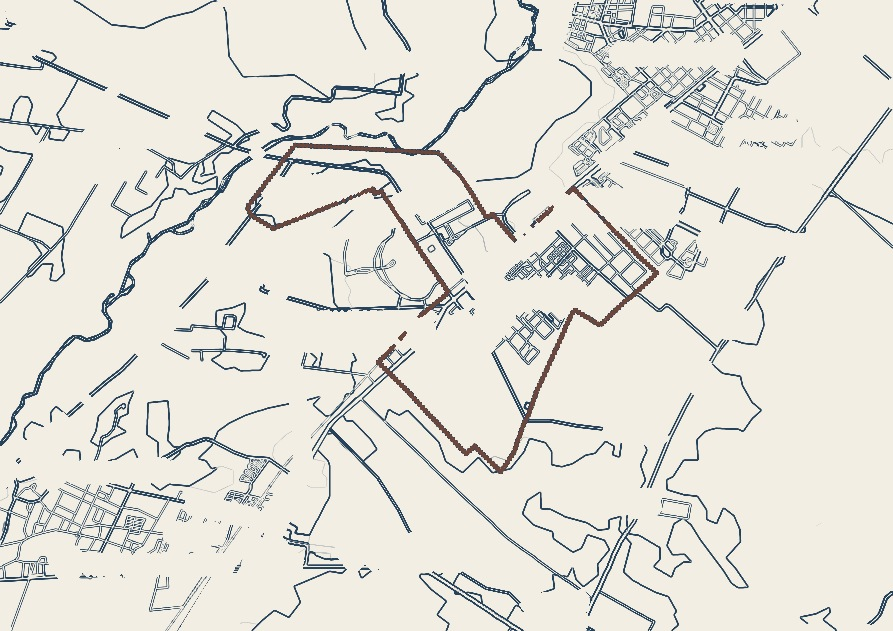
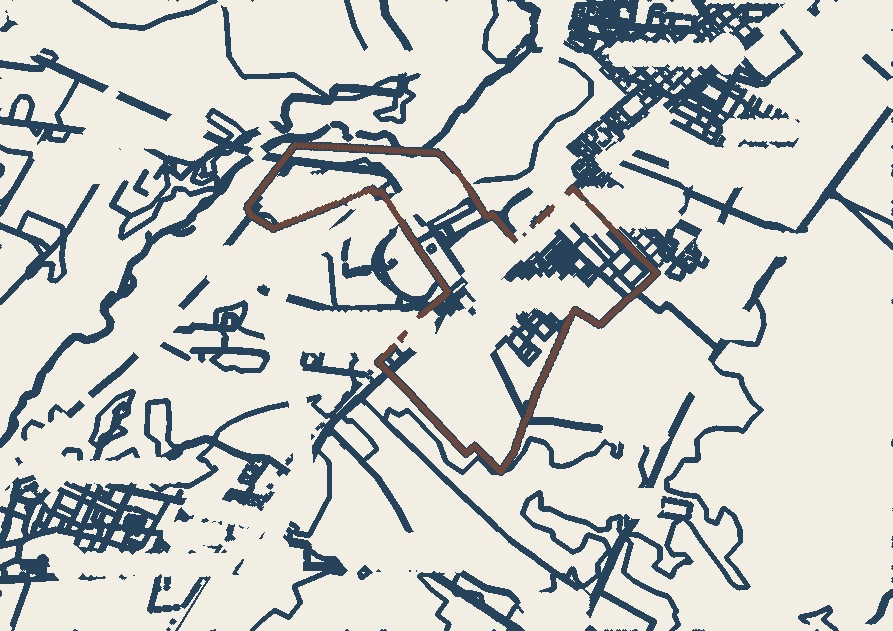
TIERRA CALMA: la calle del mapa se dibuja maciza, al estilo de la referencia
Diego mando una referencia de plano urbano: calles blancas gruesas y macizas
sobre fondo oscuro. "Que el mapa se vea de ese estilo".

El detector de bordes traza los DOS CANTOS de cada calle, asi que salian como
lineas paralelas huecas. La solucion no fue cambiar de metodo: las calles miden
3-5 px en el archivo, o sea que sus cantos estan a 3-5 px, y engordando 2 px a
cada lado se tocan y el hueco se cierra.

Lo que NO sirve, medido: detectar la calle como region por su color. El blanco
de las calles (#F5F4F4) es exactamente el mismo con que Google rellena el
interior de la comuna buscada — los dos dan luminancia 244,3.

La tinta pasa a ser plena: con alfa proporcional la trama densa de Maipu salia
como papilla gris.

Y otra vez: cortar mas alto no limpia, rompe. A 95 la red se deshace en
fragmentos y ni engrosando se vuelven a unir. El corte bueno es 75.

Corolario: con la red maciza, el contorno comunal del mismo grosor se pierde
dentro de ella. Se engrosa a 2 px por lado y la red baja al 88%.

QA: 1 aviso, el deliberado de la slide 2. Re-subida sobre el mismo fileId.

diff --git a/scripts/tc-mapa-trazos.py b/scripts/tc-mapa-trazos.py
@@ -102,34 +102,59 @@ def bordes(a: np.ndarray) -> np.ndarray:
     return fuerza
 
 
-def lineas(a: np.ndarray, umbral: float, suavizado: float) -> np.ndarray:
-    """El mapa como PLANO: línea de tinta uniforme, no trazo con gradación.
+def lineas(a: np.ndarray, umbral: float) -> np.ndarray:
+    """El mapa como PLANO: la línea está o no está, y todas pesan igual.
 
-    Diego, 25-09: *"mapa que sea lineal, tipo plano"*.
+    Diego, 25-09: *"mapa que sea lineal, tipo plano"*, y después, con una
+    referencia de plano urbano: *"que el mapa se vea de ese estilo"*.
 
-    La versión anterior entintaba **proporcionalmente** a la fuerza del borde, y
-    eso da un grabado: cada línea sale con el peso que tenía el contraste en la
-    captura, y el relieve del cerro aparece como una veladura. Un plano no es
-    eso — en un plano **la línea está o no está**, y todas pesan igual.
+    La primera versión entintaba **proporcionalmente** a la fuerza del borde, y
+    eso da un **grabado**: cada línea sale con el peso que tenía el contraste en
+    la captura y el relieve del cerro queda como veladura. Un plano no es eso.
+    Acá el gradiente se corta y lo que pasa el corte va a **tinta plena**. El
+    gris intermedio no existe: era lo que ensuciaba las zonas densas.
 
-    Así que el gradiente se corta con un umbral y se sube a tinta llena en una
-    rampa muy corta: `suavizado` es sólo el antialias del canto, no una
-    gradación. Con 35 sobre un umbral de 95, todo lo que supere 130 va a tinta
-    completa.
+    ⚠ **El umbral selecciona qué se dibuja, y está medido:**
 
-    ⚠ El umbral es lo que **selecciona qué se dibuja**, y está medido:
+        Ruta 78              p90  33 · p99 227 · máx 325
+        camino rural         p90  72 · p99 146 · máx 189
+        trama urbana Maipú   p90  84 · p99 117 · máx 183
+        borde verde/gris     p90  81 · p99 110 · máx 123
+        relieve del cerro    p90  40 · p99 159 · máx 209
 
-        camino rural        p99 146 · máx 189
-        trama urbana Maipú  p99 117 · máx 183
-        Ruta 78             p99 227 · máx 325
-        borde verde/gris    máx 123, pero p90 en 80
-        relieve del cerro   p90 en 40
-
-    En 95 entran los caminos y la trama urbana, y **se cae el relieve**, que es
-    lo que ensuciaba el plano. Subirlo a 120 empieza a comerse la trama urbana
-    de Maipú, que es justamente el ancla de «cerca de Santiago».
+    ⛔ **La trampa: un corte alto NO limpia, rompe.** El primer intento cortó en
+    95 —justo encima del borde verde/gris— y la red se deshizo en fragmentos
+    sueltos. Un camino **no tiene fuerza de borde constante**: varía a lo largo
+    de su recorrido según el relleno que atraviesa, y un corte alto se queda sólo
+    con los picos. En **75** la red queda continua y el relieve se cae solo.
     """
-    return np.clip((bordes(a) - umbral) / suavizado, 0, 1)
+    return (bordes(a) > umbral).astype(float)
+
+
+def engrosar(t: np.ndarray, veces: int) -> np.ndarray:
+    """Engorda la línea hasta que la calle se vea MACIZA.
+
+    Diego, 25-09, con una referencia de plano urbano: *"que el mapa se vea de ese
+    estilo"* — calles blancas gruesas y macizas sobre fondo oscuro.
+
+    ⭐ POR QUÉ ESTO BASTA, Y POR QUÉ NO HUBO QUE CAMBIAR DE MÉTODO:
+    el detector de bordes traza **los dos cantos** de cada calle, así que una
+    calle sale como dos líneas paralelas huecas. En el archivo las calles miden
+    3-5 px de ancho, o sea que sus dos cantos están a 3-5 px. Engordando 2 px a
+    cada lado **los dos cantos se tocan y el hueco se cierra**: la calle deja de
+    ser un contorno y pasa a ser un trazo lleno. Es el mismo dibujo, con el
+    grosor que le faltaba.
+
+    ⛔ Lo que NO funciona es detectar la calle como región por su color: el
+    blanco de las calles (#F5F4F4) es **exactamente el mismo** con que Google
+    rellena el interior de la comuna buscada. Medido sobre el archivo: los dos
+    dan luminancia 244,3. Por brillo no se separan.
+    """
+    for _ in range(veces):
+        t = np.maximum.reduce(
+            [t, np.roll(t, 1, 0), np.roll(t, -1, 0), np.roll(t, 1, 1), np.roll(t, -1, 1)]
+        )
+    return t
 
 
 def _dilatar(m: np.ndarray, veces: int) -> np.ndarray:
@@ -223,12 +248,15 @@ def _conv1(m: np.ndarray, nucleo: np.ndarray, eje: int) -> np.ndarray:
     return out if eje == 0 else out.T
 
 
-def alfa_limite(a: np.ndarray, engrosar: int = 1) -> np.ndarray:
+def alfa_limite(a: np.ndarray, engrosar: int = 2) -> np.ndarray:
     """Cuánto de cada píxel es el punteado rojo del límite comunal.
 
-    Se **engrosa** un píxel a cada lado: en el original es un punteado fino de
+    Se **engrosa dos píxeles a cada lado**: en el original es un punteado fino de
     1 px pensado para mirarse al 100 %, y en la pieza va reducido. Sin engrosar
-    se deshilacha y deja de leerse como un contorno.
+    se deshilacha y deja de leerse como un contorno — y desde que la red de
+    calles pasó a línea maciza (25-09), un contorno del mismo grosor que la red
+    se pierde dentro de ella. **Tiene que ser visiblemente más grueso**: es el
+    único elemento de la pieza que dice cuál es la comuna.
     """
     r, g, b = a[:, :, 0], a[:, :, 1], a[:, :, 2]
     rojez = (r - np.maximum(g, b)) / float(LIMITE["margen"])
@@ -270,12 +298,12 @@ VERSIONES = {
     # grabado, no una fotografía de mapa: pesa lo justo sobre el fondo oscuro.
     "mapa-ph-trazos-navy": {
         "fondo": "#0B2C49", "tinta": "#F3EEE3", "acento": "#C9B99A",
-        "umbral": 45.0, "suavizado": 50.0, "fuerza": 0.88,
+        "umbral": 75.0, "grosor": 2, "fuerza": 0.88,
     },
     # La alternativa en papel, por si el titular necesita fondo claro.
     "mapa-ph-trazos-papel": {
         "fondo": "#F3EEE3", "tinta": "#0B2C49", "acento": "#6C473D",
-        "umbral": 45.0, "suavizado": 50.0, "fuerza": 0.88,
+        "umbral": 75.0, "grosor": 2, "fuerza": 0.88,
     },
 }
 
@@ -294,15 +322,15 @@ def main() -> int:
     print(f"MAPA-PADRE HURTADO: {base.size[0]}×{base.size[1]}")
 
     lim = alfa_limite(a)
-    plano, halo = sin_rotulos(a, lim)
+    plano, nodib = sin_rotulos(a, lim)
     ys, xs = np.nonzero(lim > 0.25)
     print(f"· límite comunal: {len(xs)} px  ·  x {xs.min()}-{xs.max()}  y {ys.min()}-{ys.max()}")
 
     destino = pathlib.Path(a_.probar and "." or OCT)
     for nombre, cfg in VERSIONES.items():
         u = a_.umbral or cfg["umbral"]
-        t = lineas(plano, u, cfg["suavizado"]) * cfg["fuerza"]
-        t[halo] = 0.0
+        t = engrosar(lineas(plano, u), cfg["grosor"]) * cfg["fuerza"]
+        t[nodib] = 0.0
         fondo, tinta, acento = _rgb(cfg["fondo"]), _rgb(cfg["tinta"]), _rgb(cfg["acento"])
         out = fondo[None, None, :] * (1 - t[:, :, None]) + tinta[None, None, :] * t[:, :, None]
         # el límite comunal encima, como único acento

diff --git a/clients/tierra-calma/BITACORA.md b/clients/tierra-calma/BITACORA.md
@@ -5,6 +5,51 @@
 
 ---
 
+## 2026-09-25 (4ª vuelta) — Diego Aguilar (st-12-10: la calle, maciza)
+
+**Qué se hizo:** *"Que el mapa se vea de ese estilo"*, con una referencia de
+plano urbano adjunta —calles blancas gruesas y macizas sobre fondo oscuro—,
+guardada en `referencias/2026-09-25_plano-urbano-lineal.png`.
+
+**El diagnóstico:** el detector de bordes traza **los dos cantos** de cada calle,
+así que una calle salía como dos líneas paralelas **huecas**. La referencia
+dibuja la calle entera.
+
+⭐ **La solución no fue cambiar de método, fue engrosar.** En el archivo las
+calles miden 3-5 px, o sea que sus dos cantos están a 3-5 px: engordando 2 px a
+cada lado **los cantos se tocan y el hueco se cierra**. Mismo dibujo, con el
+grosor que le faltaba. Estuve a punto de reescribir todo el detector.
+
+⛔ **Lo que probé primero y no sirve: detectar la calle como región por color.**
+Está medido y es tajante: el blanco de las calles es `#F5F4F4` y el blanco con
+que Google **rellena el interior de la comuna buscada** es *exactamente el
+mismo* — los dos dan luminancia 244,3. Por brillo no se separan, y era el camino
+"obvio".
+
+⚠ **Y la tinta pasó a ser plena.** Con alfa proporcional, la trama densa de
+Maipú salía como una papilla gris. Binarizando, esas zonas pasan a ser manchas
+limpias, que es como las resuelve la referencia.
+
+**Otra trampa medida:** con la línea binaria probé cortar más alto para limpiar
+—75, 95, 115— y **cortar alto no limpia, rompe**: a 95 la red se deshizo en
+fragmentos y ni engrosando se volvían a unir. Un camino no tiene fuerza de borde
+constante. El corte bueno es **75** con tinta plena y engrosado de 2.
+
+**Corolario que apareció solo:** desde que la red es maciza, el contorno comunal
+del mismo grosor **se pierde dentro de ella**. Se engrosó a 2 px por lado y la
+red bajó al 88 %. Es el único elemento de la pieza que dice cuál es la comuna.
+
+**Dónde quedó:** `scripts/tc-mapa-trazos.py` — `lineas()` ahora devuelve máscara
+binaria y se sumó `engrosar()`. **QA: 1 aviso**, el deliberado de la slide 2.
+Re-subida sobre el mismo `fileId`.
+
+**Qué sigue:** esperar la vuelta de Diego. `c-20-10-2` sigue sin tocar.
+
+**Abierto:** sin cambios, más la captura de mapa con el pin del proyecto y el
+contorno de la comuna a la vez.
+
+---
+
 ## 2026-09-25 (3ª vuelta) — Diego Aguilar (st-12-10: el mapa, lineal tipo plano)
 
 **Qué se hizo:** *"Mapa que sea lineal, tipo plano."*

diff --git a/clients/tierra-calma/CLAUDE.md b/clients/tierra-calma/CLAUDE.md
@@ -1294,6 +1294,34 @@ corta: el suavizado es sólo el antialias del canto, no una gradación.
 
 Con 45 y rampa de 50, el relieve —p90 en 40— se cae solo y la red queda continua.
 
+#### ⭐ LA CALLE SE DIBUJA MACIZA, NO SE CONTORNEA (Diego, 25-09, 4ª vuelta)
+
+> *"Que el mapa se vea de ese estilo"* — con una referencia de plano urbano
+> adjunta ([`referencias/2026-09-25_plano-urbano-lineal.png`](referencias/2026-09-25_plano-urbano-lineal.png)):
+> calles blancas **gruesas y macizas** sobre fondo oscuro.
+
+El detector de bordes traza **los dos cantos** de cada calle, así que una calle
+salía como dos líneas paralelas **huecas**. La referencia dibuja la calle entera.
+
+⭐ **La solución no fue cambiar de método, fue engrosar.** En el archivo las
+calles miden 3-5 px, o sea que sus dos cantos están a 3-5 px: engordando 2 px a
+cada lado **los cantos se tocan y el hueco se cierra**. Es el mismo dibujo con el
+grosor que le faltaba.
+
+⛔ **Lo que NO funciona es detectar la calle como región por su color.** Fue lo
+primero que se probó, y está medido: el blanco de las calles es `#F5F4F4` y el
+blanco con que Google **rellena el interior de la comuna buscada** es
+*exactamente el mismo* — los dos dan luminancia 244,3. Por brillo no se separan.
+
+⚠ **Y la tinta tiene que ser plena.** Con alfa proporcional, las zonas densas
+—la trama de Maipú— salían como una papilla gris. Binarizando, esas zonas pasan a
+ser manchas limpias, que es como las resuelve la referencia.
+
+⚠ **Corolario sobre el contorno comunal:** desde que la red pasó a línea maciza,
+un contorno del mismo grosor **se pierde dentro de ella**. Se engrosa a 2 px por
+lado y la red baja al 88 % — es el único elemento de la pieza que dice cuál es la
+comuna.
+
 #### El titular pasa a una línea y vuelve al centro
 
 *"El texto superior que quede así: «cerca de santiago» en una línea, y abajo como
